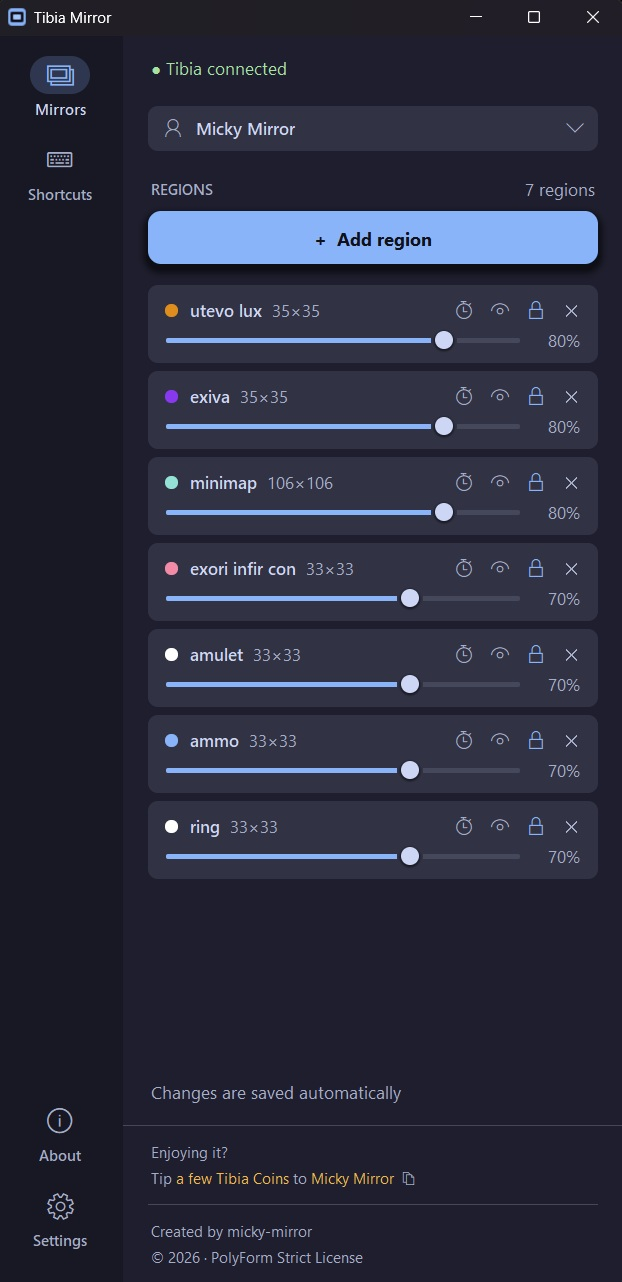
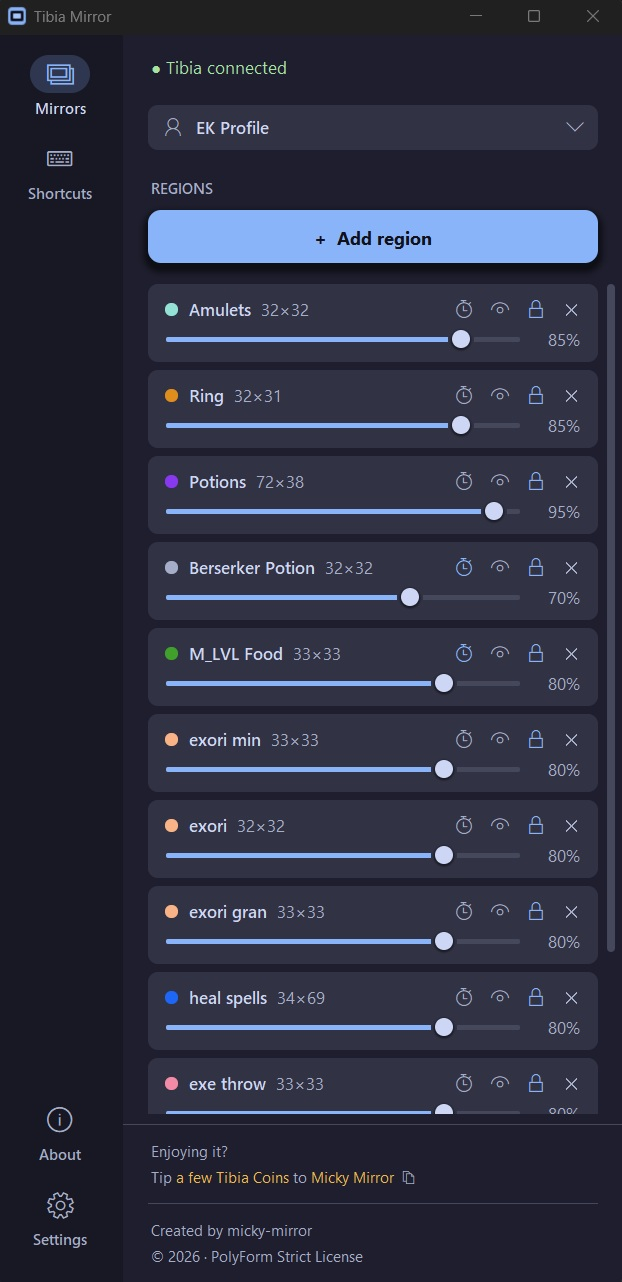
Show the new panel in the README screenshots

diff --git a/README.md b/README.md
@@ -23,16 +23,9 @@
 </p>
 
 <p align="center">
-  <img src="docs/images/in_game.jpg" width="820" alt="Tibia with Tibia Mirror running: a copy of the minimap in the top-right corner and small framed copies of the amulet, ring, potions and spells below the character">
-  <br>
-  <sub>Mirrors in the game: the minimap and a few basic spell icons, each in a framed window you can place anywhere and tailor to your needs: size, opacity, frame colour, timer and more.<br>
-  Photo taken with a phone: on your own screen, the mirrors look as sharp and smooth as the game itself.</sub>
-</p>
-
-<p align="center">
-  <img src="docs/images/mirror_1.jpg" height="640" alt="The Mirrors page: a profile with five regions, each with its colour, size, timer, visibility, lock and opacity">
+  <img src="docs/images/mirror_1.jpg" height="640" alt="The Mirrors page: a profile with its regions, each with its colour, size, timer, visibility, lock and opacity">
   &nbsp;
-  <img src="docs/images/mirror_2.jpg" height="640" alt="The Settings page: language, theme, profiles, saving and mirror options">
+  <img src="docs/images/mirror_2.jpg" height="640" alt="The Settings page: language, theme, keeping the panel on top, profile per character and mirror options">
 </p>
 
 ---
@@ -123,7 +116,7 @@ The mirror keeps its name, opacity, timer and place; only the part of the game i
 Click the stopwatch on a card to give that mirror a timer.
 
 <p align="center">
-  <img src="docs/images/mirror_3.jpg" height="315" alt="The Timer dialog: alert time, count direction, mouse button, key, sound and pause while logged out">
+  <img src="docs/images/mirror_3.jpg" height="315" alt="The Timer dialog: timer on, pause while logged out, alert time, sound, count direction and key">
 </p>
 
 | | How it works |
